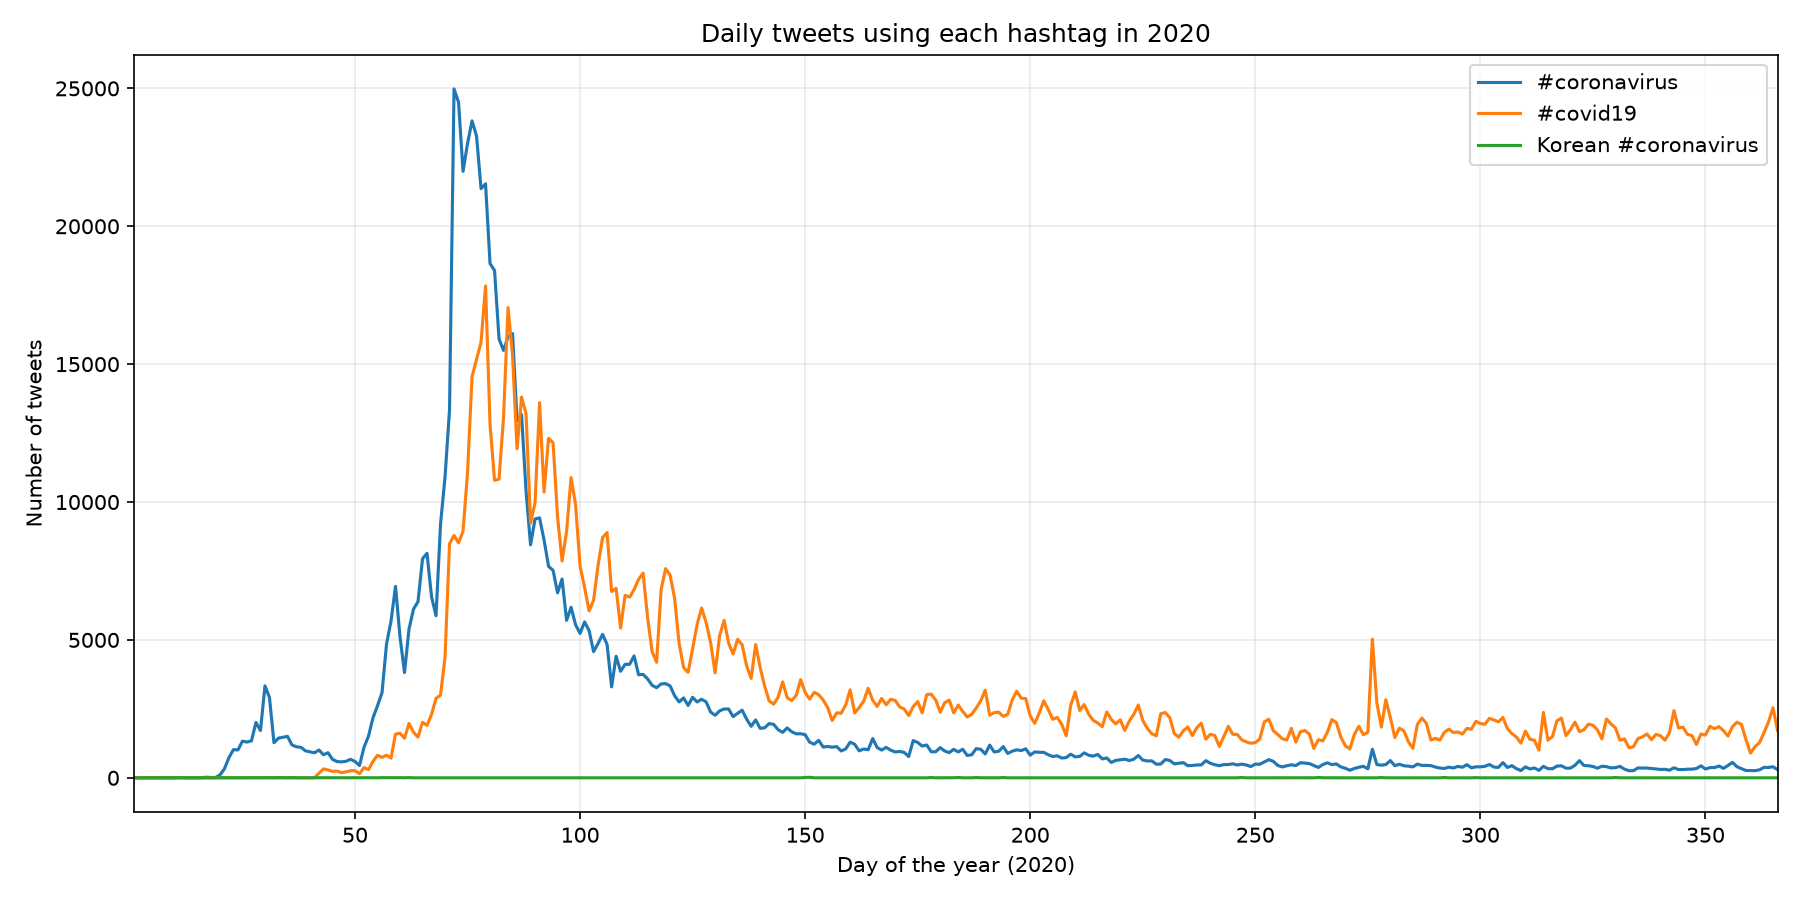
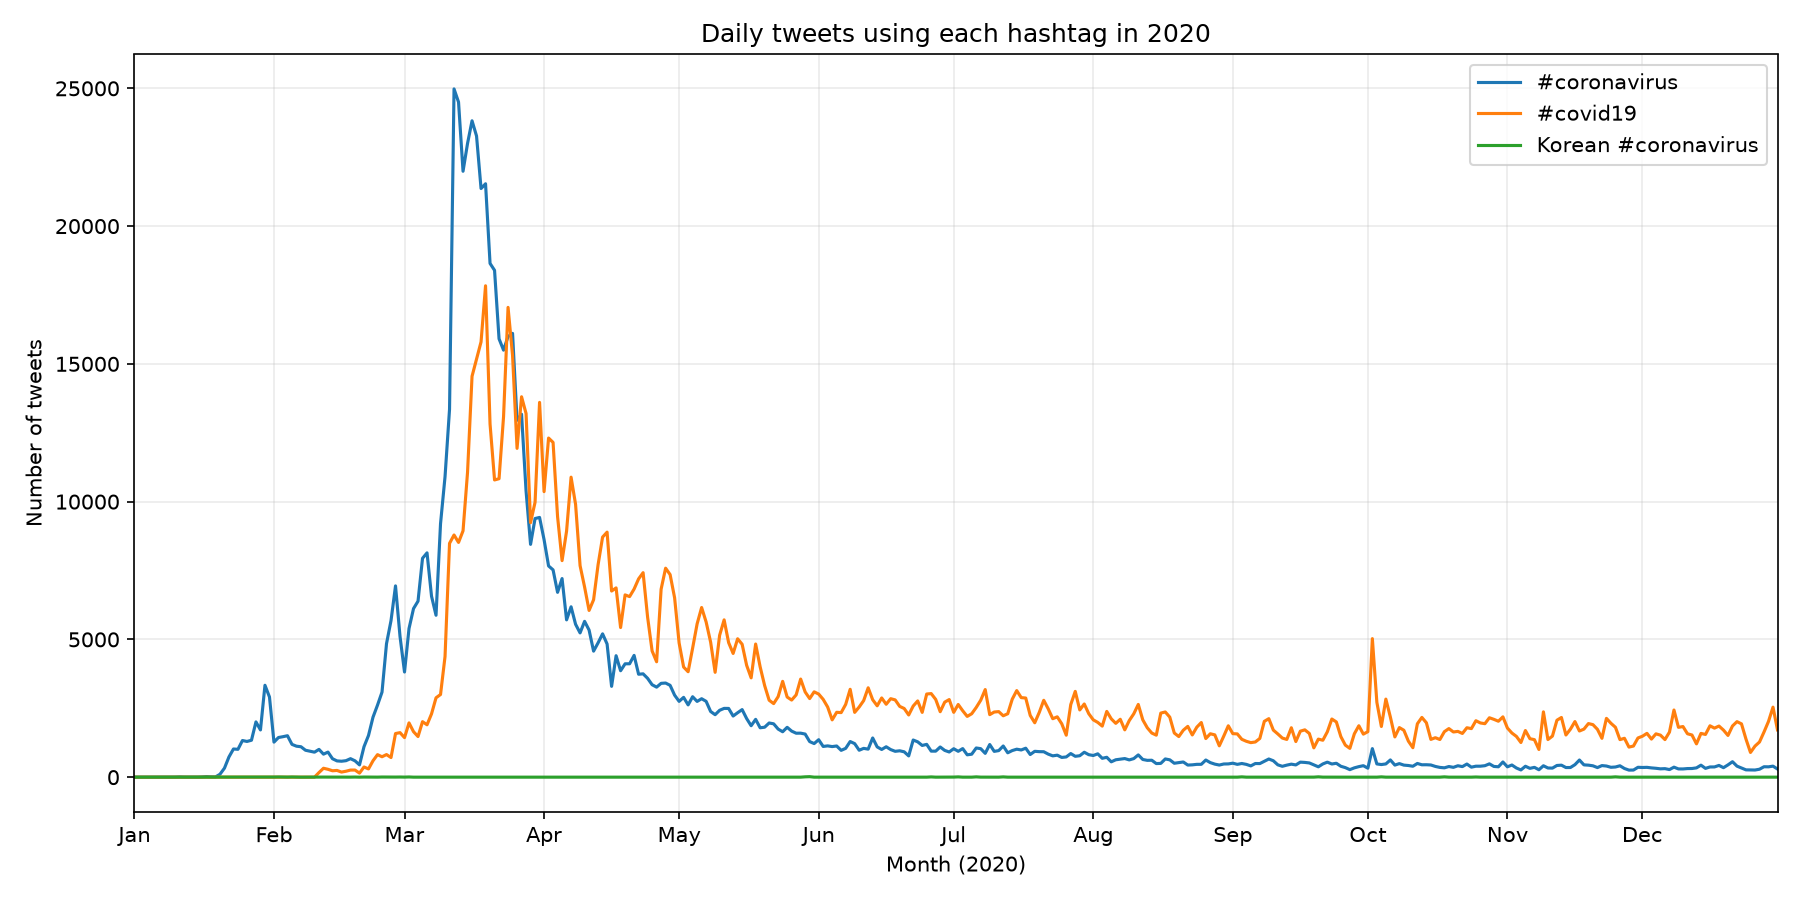
Label line chart x-axis by month

diff --git a/src/alternative_reduce.py b/src/alternative_reduce.py
@@ -39,7 +39,13 @@ for hashtag in args.hashtags:
     axis.plot(days, [counts[hashtag].get(d, 0) for d in days], linewidth=1.5,
               label=display_names.get(hashtag, hashtag))
 axis.set_title("Daily tweets using each hashtag in 2020")
-axis.set_xlabel("Day of the year (2020)")
+
+# Label the x-axis with month names instead of day numbers.
+month_starts = [datetime.date(2020, m, 1).timetuple().tm_yday for m in range(1, 13)]
+month_names = [datetime.date(2020, m, 1).strftime("%b") for m in range(1, 13)]
+axis.set_xticks(month_starts)
+axis.set_xticklabels(month_names)
+axis.set_xlabel("Month (2020)")
 axis.set_ylabel("Number of tweets")
 axis.set_xlim(1, 366)
 axis.grid(alpha=0.25)
